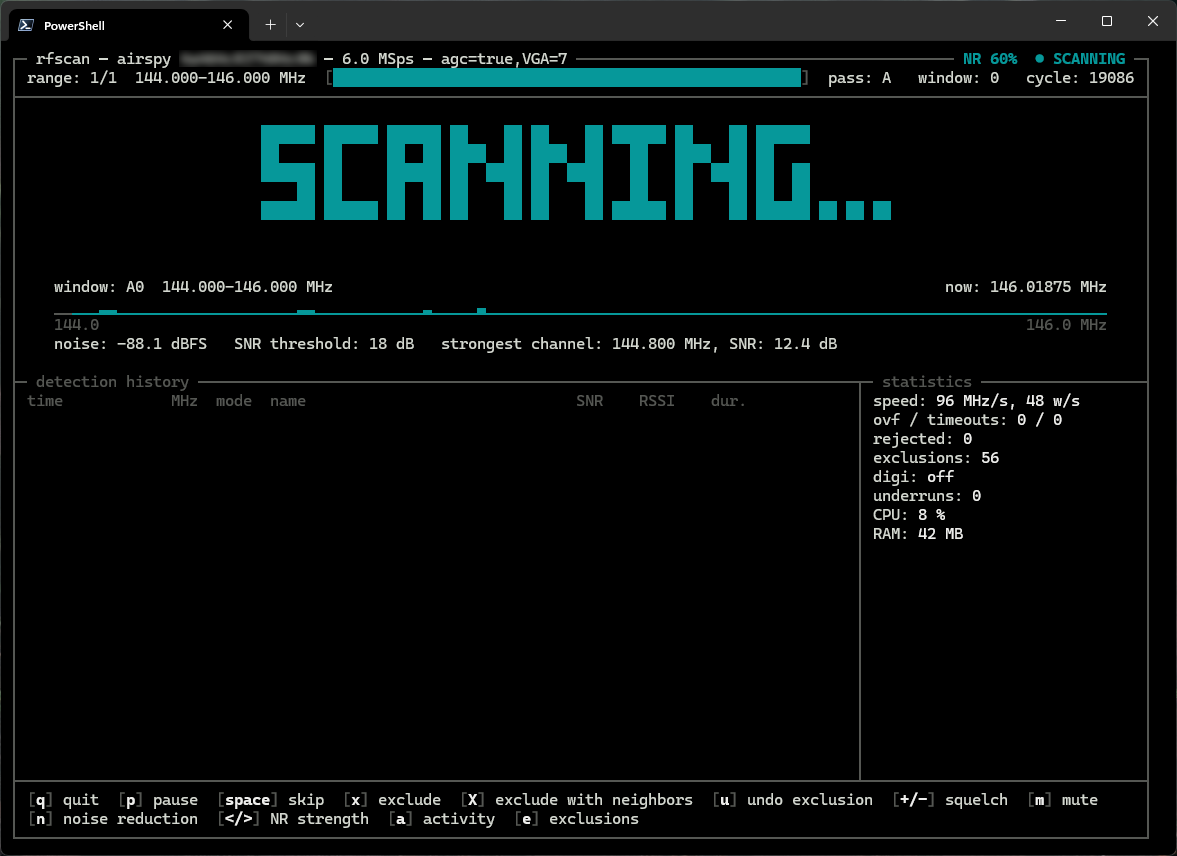
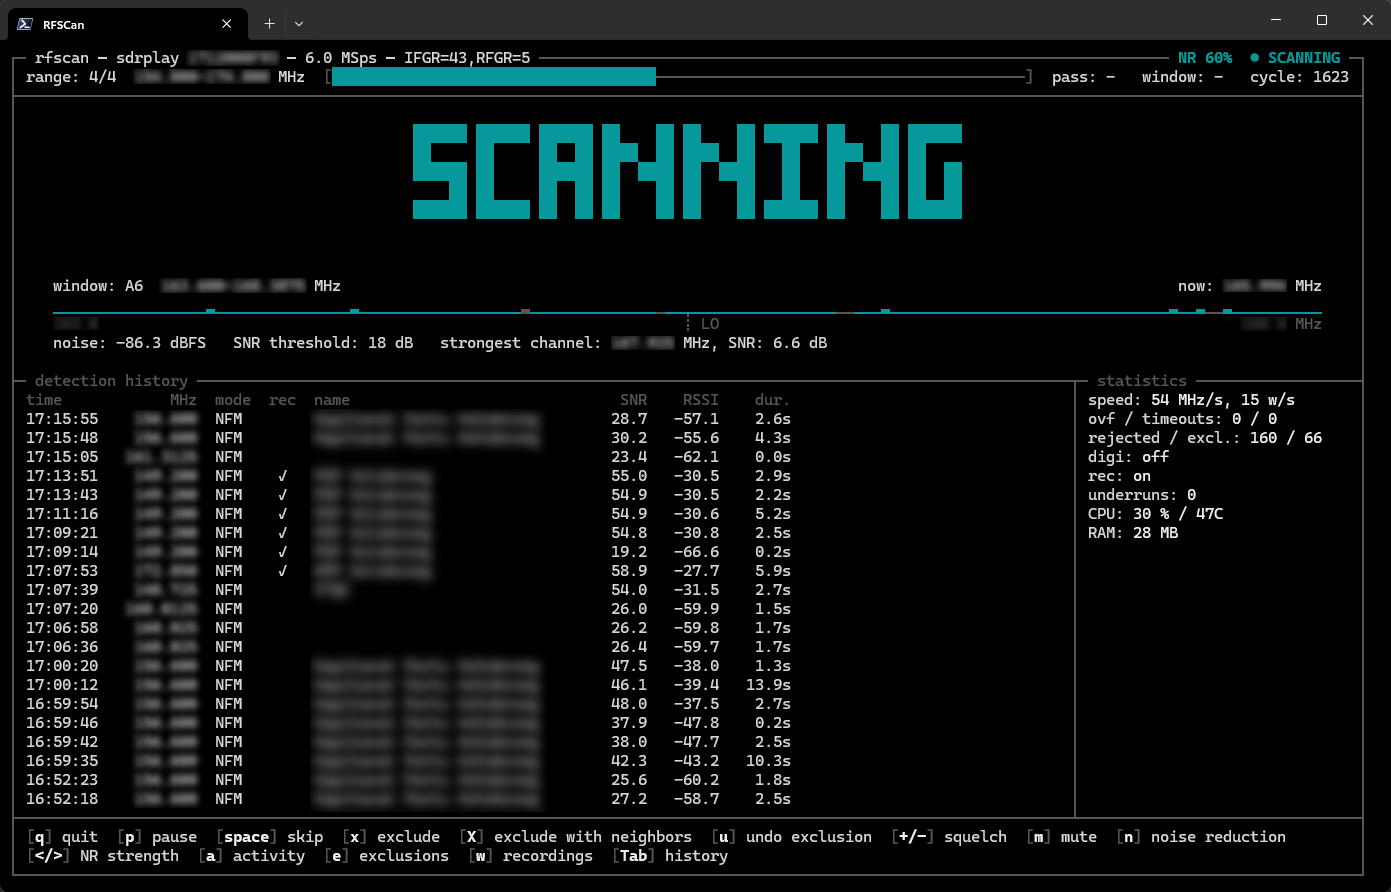
Project page: current TUI screenshot

Changed region(s): [[0.0, 0.0, 1.0, 1.0]]

diff --git a/index.html b/index.html
@@ -545,9 +545,9 @@ footer a:hover { color: var(--text); }
     <div class="shots">
       <figure class="shot reveal">
         <div class="frame">
-          <img src="img/screenshot-tui.png" width="1177" height="856" loading="lazy" alt="rfscan scanning the 2 m band in the terminal">
+          <img src="img/screenshot-tui.png" width="1391" height="892" loading="lazy" alt="The rfscan text interface scanning with an SDRplay receiver: the scan status, the detection history and the statistics">
         </div>
-        <figcaption>The TUI scanning the 2 m band with an Airspy Mini</figcaption>
+        <figcaption>The TUI scanning with an SDRplay receiver</figcaption>
       </figure>
     </div>
   </div>
